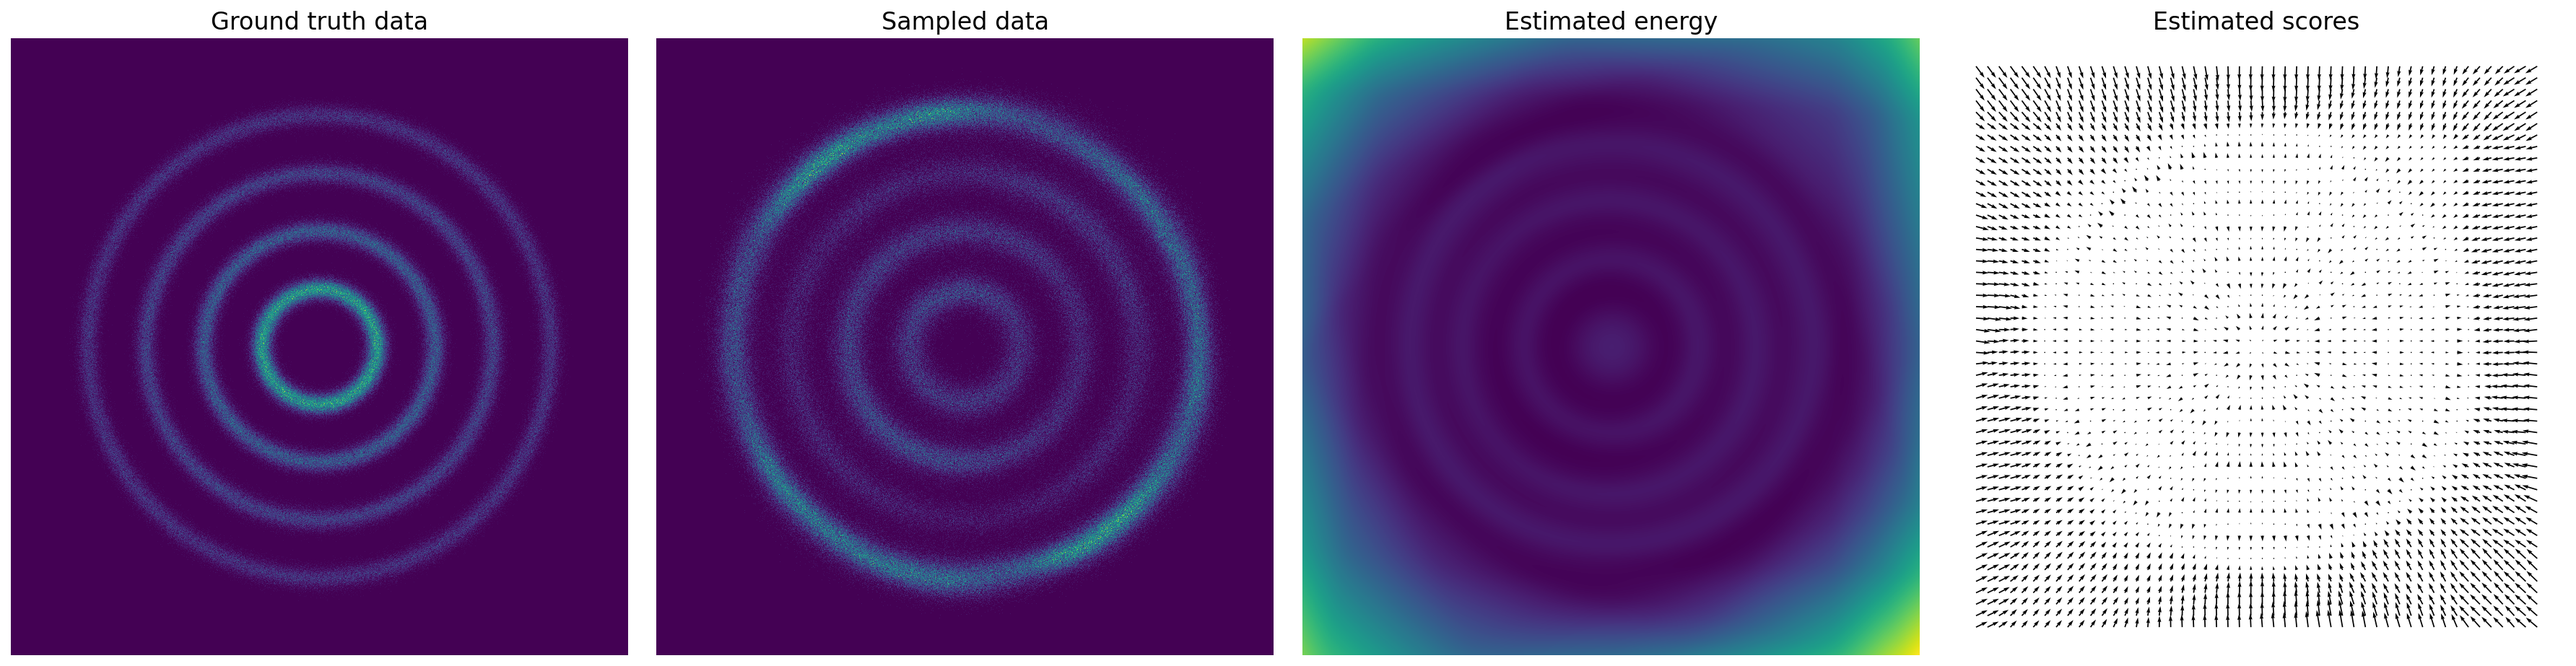
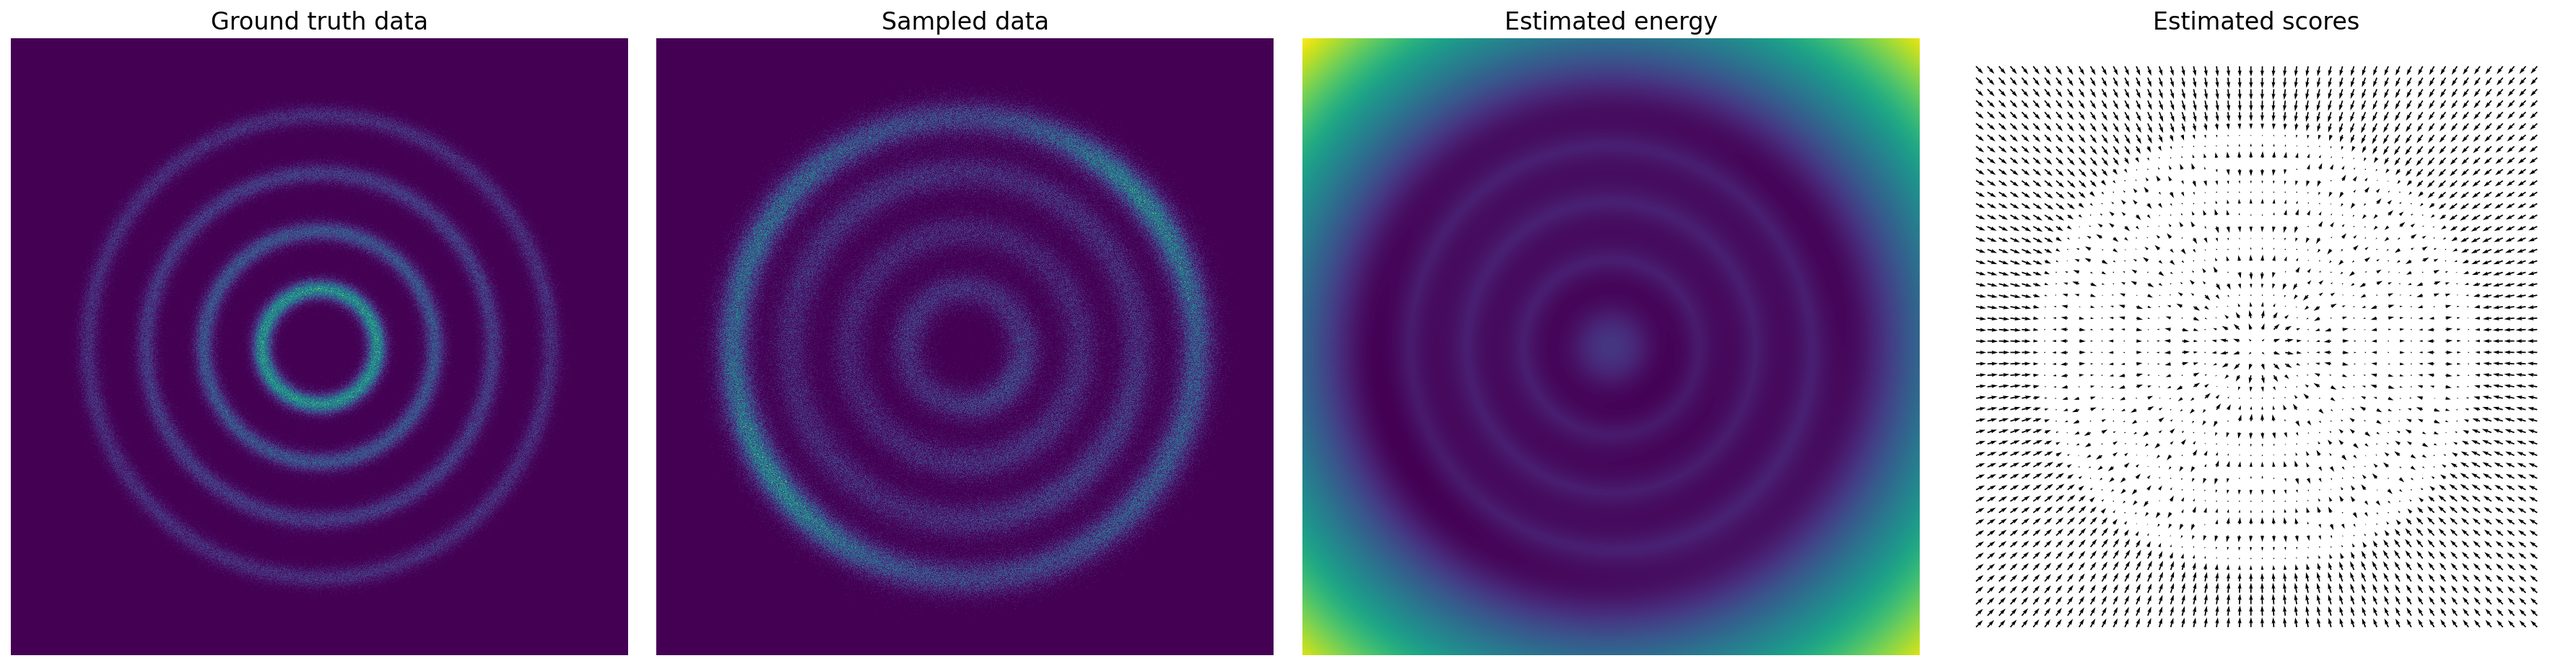
fixed swish bugs; improved performance

diff --git a/toy_gradlogp/energy.py b/toy_gradlogp/energy.py
@@ -15,17 +15,20 @@ from torch.utils.tensorboard import SummaryWriter
 # --- my module ---
 
 __all__ = [
+    'ToyMLP',
     'Energy',
     'Trainer',
-    'langevin_dynamics',
-    'anneal_langevin_dynamics',
-    'sample_score_field',
-    'sample_energy_field'
 ]
 
 # --- primitives ---
 class Swish(nn.Module):
     def __init__(self, dim=-1):
+        """Swish activ bootleg from
+        https://github.com/wgrathwohl/LSD/blob/master/networks.py#L299
+
+        Args:
+            dim (int, optional): input/output dimension. Defaults to -1.
+        """
         super().__init__()
         if dim > 0:
             self.beta = nn.Parameter(torch.ones((dim,)))
@@ -64,7 +67,7 @@ class ToyMLP(nn.Module):
         for out_dim in units:
             layers.extend([
                 nn.Linear(in_dim, out_dim),
-                Swish(out_dim) if swish == 'swish' else nn.Softplus(),
+                Swish(out_dim) if swish else nn.Softplus(),
                 nn.Dropout(.5) if dropout else nn.Identity()
             ])
             in_dim = out_dim
@@ -78,7 +81,8 @@ class ToyMLP(nn.Module):
 # --- energy model ---
 class Energy(nn.Module):
     def __init__(self, net):
-        """Energy model
+        """A simple energy model
+
         Args:
             net (nn.Module): An energy function, the output shape of
                 the energy function should be (b, 1). The score is

diff --git a/toy_gradlogp/utils.py b/toy_gradlogp/utils.py
@@ -8,7 +8,7 @@ from torch import nn
 
 # --- my module ---
 
-__all__ = [ 
+__all__ = [
     'langevin_dynamics',
     'anneal_langevin_dynamics',
     'sample_score_field',
